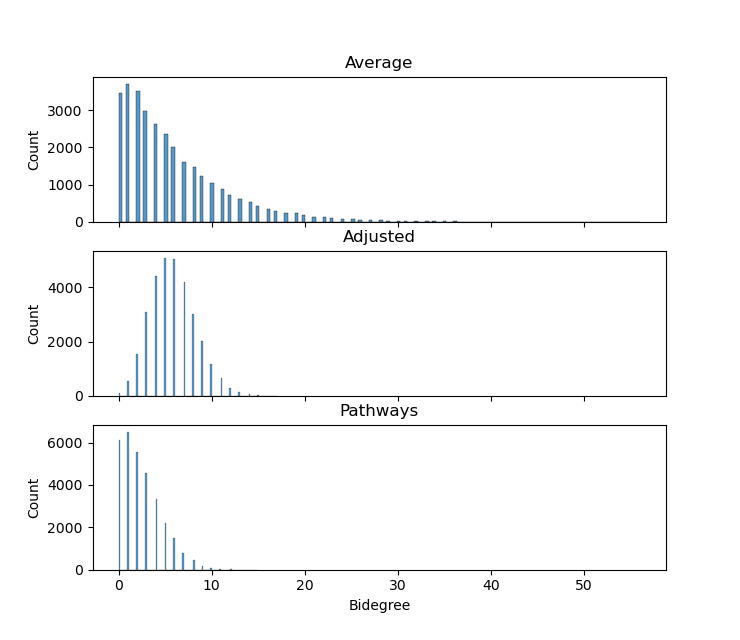
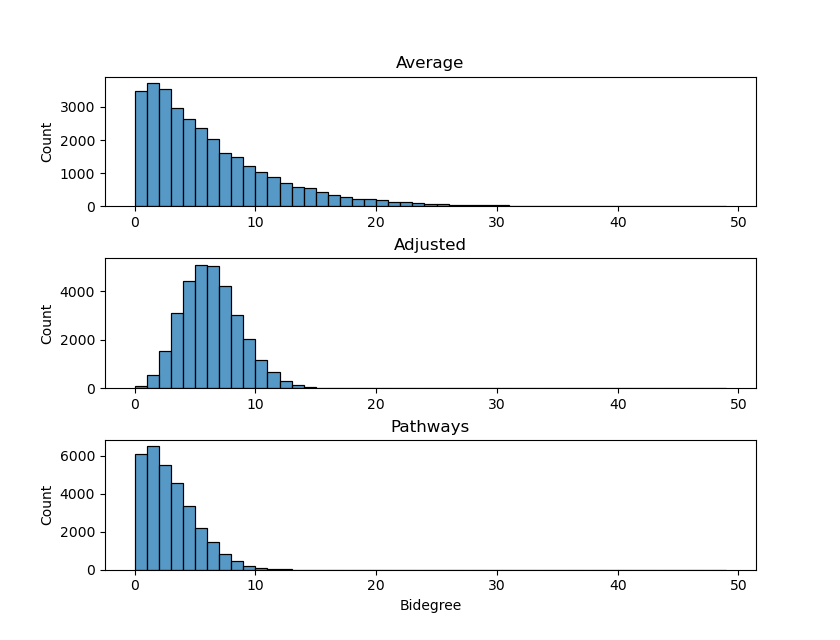
Added degree distribution images

diff --git a/plot_scripts/plot_2dhist_morph.py b/plot_scripts/plot_2dhist_morph.py
@@ -59,42 +59,49 @@ for dimension in range(1,7):
     ax = fig.add_subplot()
     ax.bar(range(len(morphs)), np.sum(esdf, axis = 1), tick_label = morphs)
     ax.set_title("E. simplex sink count per mtype on dim " + str(dimension +1))
+    ax.set_xticklabels(ax.get_xticklabels(), rotation = 45, ha = 'right')
     fig.savefig("ESsinkmtypehistD" + str(dimension+1), facecolor = "white")
 
     fig = plt.figure(figsize = [8, 6])
     ax = fig.add_subplot()
     ax.bar(range(len(morphs)), np.sum(edgedf, axis = 1), tick_label = morphs)
     ax.set_title("Bidirectional edge count per mtype on dim " + str(dimension +1))
+    ax.set_xticklabels(ax.get_xticklabels(), rotation = 45, ha = 'right')
     fig.savefig("BEmtypehistD" + str(dimension+1), facecolor = "white")
 
     fig = plt.figure(figsize = [8, 6])
     ax = fig.add_subplot()
     ax.bar(range(len(morphs)), np.sum(esdf, axis = 0), tick_label = morphs)
     ax.set_title("E. simplex end count per mtype on dim " + str(dimension +1))
+    ax.set_xticklabels(ax.get_xticklabels(), rotation = 45, ha = 'right')
     fig.savefig("ESendmtypehistD" + str(dimension+1), facecolor = "white")
 
     fig = plt.figure(figsize = [8, 6])
     ax = fig.add_subplot()
     ax.bar(range(len(morphs)), np.sum(bsdf, axis = 0), tick_label = morphs)
     ax.set_title("Bisimplex sink count per mtype on dim " + str(dimension +1))
+    ax.set_xticklabels(ax.get_xticklabels(), rotation = 45, ha = 'right')
     fig.savefig("BSsinkmtypehistD" + str(dimension+1), facecolor = "white")
 
     fig = plt.figure(figsize = [8, 6])
     ax = fig.add_subplot()
     ax.bar(range(len(morphs)), np.divide(np.sum(bsdf, axis = 0), np.sum(edgedf, axis = 0)), tick_label = morphs)
     ax.set_title("Bisimplex sink over bidegree counts per mtype on dim " + str(dimension +1))
+    ax.set_xticklabels(ax.get_xticklabels(), rotation = 45, ha = 'right')
     fig.savefig("BSsinkBEmtypehistD" + str(dimension+1), facecolor = "white")
 
     fig = plt.figure(figsize = [8, 6])
     ax = fig.add_subplot()
     ax.bar(range(len(morphs)), np.divide(np.sum(esdf, axis = 1), np.sum(bsdf, axis = 0)), tick_label = morphs)
     ax.set_title("Extended simplex sink over bidegree counts per mtype on dim " + str(dimension +1))
+    ax.set_xticklabels(ax.get_xticklabels(), rotation = 45, ha = 'right')
     fig.savefig("ESsinkBEmtypehistD" + str(dimension+1), facecolor = "white")
 
     fig = plt.figure(figsize = [8, 6])
     ax = fig.add_subplot()
     ax.bar(range(len(morphs)), np.divide(np.sum(esdf, axis = 0), np.sum(bsdf, axis = 0)), tick_label = morphs)
     ax.set_title("Extended simplex end over bidegree counts per mtype on dim " + str(dimension +1))
+    ax.set_xticklabels(ax.get_xticklabels(), rotation = 45, ha = 'right')
     fig.savefig("ESendBEmtypehistD" + str(dimension+1), facecolor = "white")
 
 

diff --git a/plot_scripts/plot_distr.py b/plot_scripts/plot_distr.py
@@ -20,20 +20,22 @@ bm_adjusted = m_adjusted.multiply(m_adjusted.T)
 m_pathways = r_pathways.get_file_matrix(p_pathways)
 bm_pathways = m_pathways.multiply(m_pathways.T)
 
-count_a = np.squeeze(np.array(m_average.sum(axis=0)))
-count_b = np.squeeze(np.array(m_adjusted.sum(axis=0)))
-count_c = np.squeeze(np.array(m_pathways.sum(axis=0)))
+count_a = np.squeeze(np.array(bm_average.sum(axis=1)))
+count_b = np.squeeze(np.array(bm_adjusted.sum(axis=1)))
+count_c = np.squeeze(np.array(bm_pathways.sum(axis=1)))
 
-dfa = pd.DataFrame(count_a, columns = ["In degree"])
-dfb = pd.DataFrame(count_b, columns = ["In degree"])
-dfc = pd.DataFrame(count_c, columns = ["In degree"])
+dfa = pd.DataFrame(count_a, columns = ["Bidegree"])
+dfb = pd.DataFrame(count_b, columns = ["Bidegree"])
+dfc = pd.DataFrame(count_c, columns = ["Bidegree"])
 
 fig, axes = plt.subplots(3,1, sharex = False, figsize = [8.4, 6.4])
-sns.histplot(x = "In degree", data = dfa, ax = axes[0])
-sns.histplot(x = "In degree", data = dfb, ax = axes[1], bins = np.arange(320))
-sns.histplot(x = "In degree", data = dfc, ax = axes[2])
+sns.histplot(x = "Bidegree", data = dfa, ax = axes[0], bins = np.arange(50))
+sns.histplot(x = "Bidegree", data = dfb, ax = axes[1], bins = np.arange(50))
+sns.histplot(x = "Bidegree", data = dfc, ax = axes[2], bins = np.arange(50))
 axes[0].set_title("Average")
 axes[1].set_title("Adjusted")
 axes[2].set_title("Pathways")
-
-fig.savefig("indegree_distr", facecolor = "white")
+axes[0].set_xlabel("")
+axes[1].set_xlabel("")
+fig.subplots_adjust(hspace = 0.4)
+fig.savefig("bidegree_distr", facecolor = "white")
